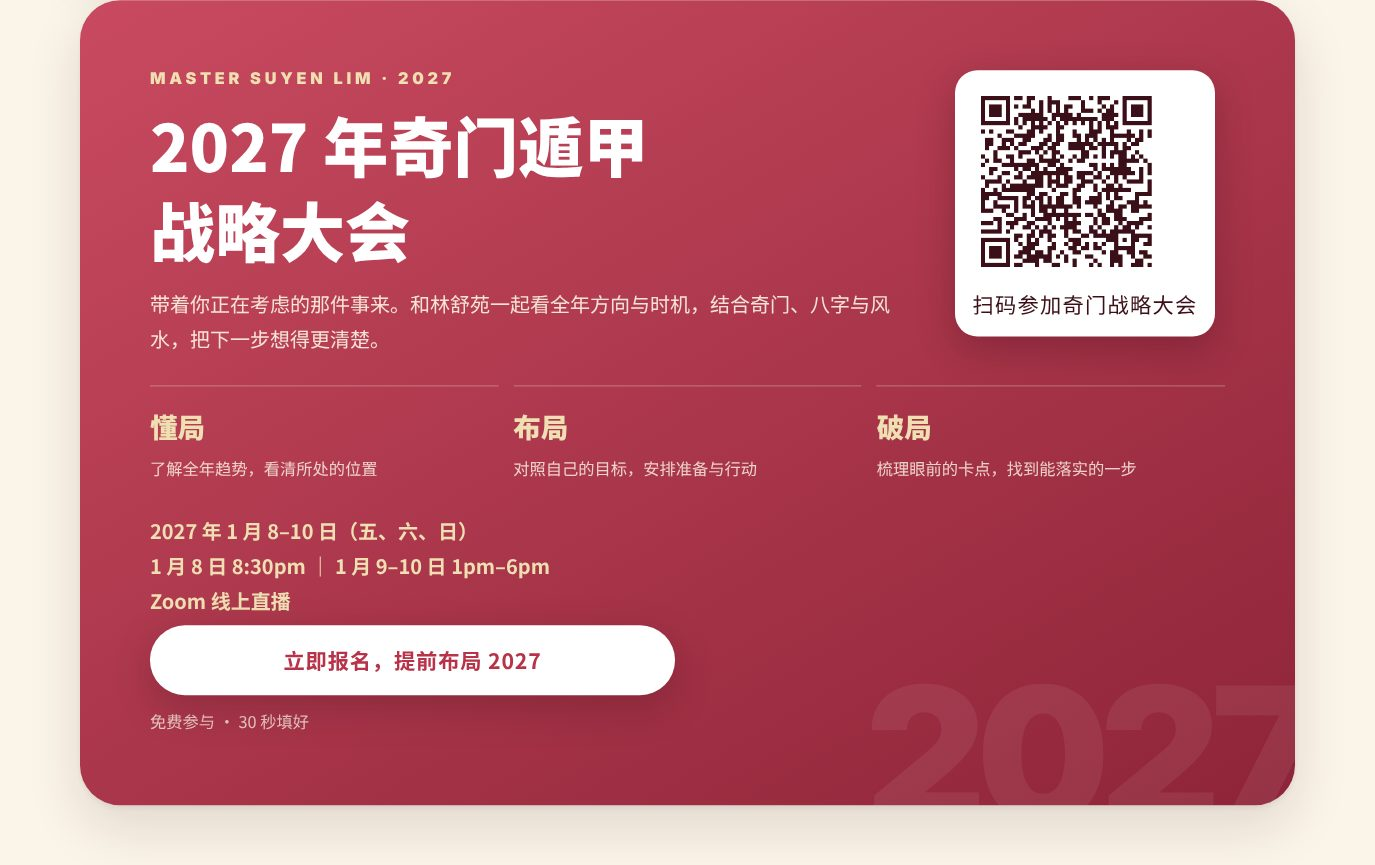
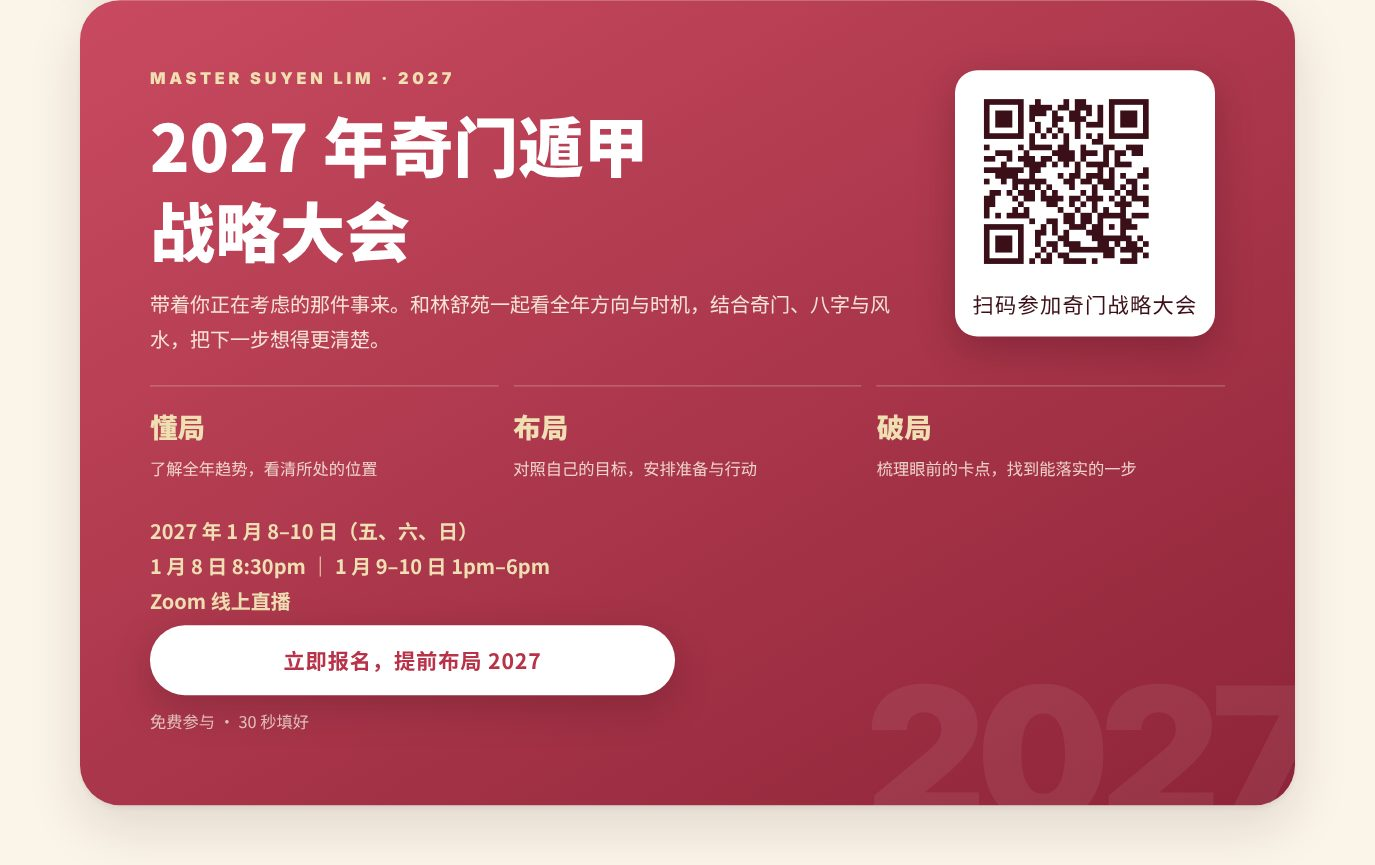
caiyun-guide: PDF conference card QR and button point to 2027qimenconference.suyenlim.com
Claude-Session: https://claude.ai/code/session_018n9rFHsTsMP5QigxfKvfFu

Changed region(s): [[0.7025, 0.0936, 0.8553, 0.3121]]

diff --git a/project/suyen2027conference/skills/suyen-landing/examples/caiyun-guide/raw/index-full.html b/project/suyen2027conference/skills/suyen-landing/examples/caiyun-guide/raw/index-full.html
@@ -1761,7 +1761,7 @@ sync();setInterval(function(){if(document.contains(sel))sync();},500);}
 $('.dob select').forEach(agSelect);})();
 /* raw 版：没有平台钩子，这里自己做 ① 出生日期 → 年柱地支 ② 报名弹窗 ③ 报名送出（跟平台一样送去 /api/track，算在 funnel 那一页） */
 (function(){
-var PDFZ={"0": {"u": "/avatars/lp-1795067336251-038a215f60ddacfb6d7b6073.jpg", "w": 1375, "h": 12415, "W": 1100, "H": 9931.45, "top": 2849.8, "bottom": 6151.73, "cards": {"1936": [5832.66, 6151.73], "1948": [5403.12, 5832.66], "1960": [4973.59, 5403.12], "1972": [4457.47, 4973.59], "1984": [4027.94, 4457.47], "1996": [3708.86, 4027.94], "2008": [3279.33, 3708.86], "2020": [2849.8, 3279.33]}}, "1": {"u": "/avatars/lp-1795067344077-668c8108887b774c34671bfb.jpg", "w": 1375, "h": 13105, "W": 1100, "H": 10483.3, "top": 3036.45, "bottom": 6330.27, "cards": {"1937": [5871.73, 6330.27], "1949": [5413.2, 5871.73], "1961": [5054.67, 5413.2], "1973": [4699.38, 5054.67], "1985": [4312.05, 4699.38], "1997": [3853.52, 4312.05], "2009": [3394.98, 3853.52], "2021": [3036.45, 3394.98]}}, "2": {"u": "/avatars/lp-1795155524640-361f316f44af317537694092.jpg", "w": 1375, "h": 14070, "W": 1100, "H": 11255, "top": 3036.45, "bottom": 7101.97, "cards": {"1938": [6556.84, 7101.97], "1950": [6167.36, 6556.84], "1962": [5564.44, 6167.36], "1974": [5090.31, 5564.44], "1986": [4573.98, 5090.31], "1998": [4028.86, 4573.98], "2010": [3639.38, 4028.86], "2022": [3036.45, 3639.38]}}, "3": {"u": "/avatars/lp-1795067345114-e23d0fbbaf9d772d318013ad.jpg", "w": 1375, "h": 13290, "W": 1100, "H": 10630.52, "top": 3007.66, "bottom": 6477.48, "cards": {"1939": [6118.95, 6477.48], "1951": [5631.62, 6118.95], "1963": [5115.5, 5631.62], "1975": [4728.17, 5115.5], "1987": [4369.64, 4728.17], "1999": [4011.11, 4369.64], "2011": [3523.78, 4011.11], "2023": [3007.66, 3523.78]}}, "4": {"u": "/avatars/lp-1795067345706-4b811bcd197e93398187848e.jpg", "w": 1375, "h": 13901, "W": 1100, "H": 11119.94, "top": 3007.66, "bottom": 6966.91, "cards": {"1940": [6561.03, 6966.91], "1952": [5986.91, 6561.03], "1964": [5412.78, 5986.91], "1976": [5006.91, 5412.78], "1988": [4561.78, 5006.91], "2000": [4155.91, 4561.78], "2012": [3581.78, 4155.91], "2024": [3007.66, 3581.78]}}, "5": {"u": "/avatars/lp-1795067346251-ee67f818f2bdb4b469e234c1.jpg", "w": 1375, "h": 13195, "W": 1100, "H": 10555.17, "top": 3007.66, "bottom": 6402.14, "cards": {"1941": [5943.61, 6402.14], "1953": [5485.08, 5943.61], "1965": [5108.2, 5485.08], "1977": [4760.12, 5108.2], "1989": [4301.59, 4760.12], "2001": [3843.06, 4301.59], "2013": [3384.53, 3843.06], "2025": [3007.66, 3384.53]}}, "6": {"u": "/avatars/lp-1795067347303-341d7b09ec79ee88679f3b45.jpg", "w": 1375, "h": 15101, "W": 1100, "H": 12079.58, "top": 3007.66, "bottom": 7926.55, "cards": {"1930": [7381.42, 7926.55], "1942": [6778.5, 7381.42], "1954": [6204.38, 6778.5], "1966": [5688.05, 6204.38], "1978": [5246.16, 5688.05], "1990": [4701.03, 5246.16], "2002": [4098.11, 4701.03], "2014": [3523.98, 4098.11], "2026": [3007.66, 3523.98]}}, "7": {"u": "/avatars/lp-1795067347575-bdcf150a90b2cd3fd0f2f00d.jpg", "w": 1375, "h": 14005, "W": 1100, "H": 11202.66, "top": 3007.66, "bottom": 7049.62, "cards": {"1931": [6562.3, 7049.62], "1943": [6103.77, 6562.3], "1955": [5716.44, 6103.77], "1967": [5257.91, 5716.44], "1979": [4799.38, 5257.91], "1991": [4312.05, 4799.38], "2003": [3853.52, 4312.05], "2015": [3466.19, 3853.52], "2027": [3007.66, 3466.19]}}, "8": {"u": "/avatars/lp-1795067348548-2039ec2b5d6a44560952382a.jpg", "w": 1375, "h": 13261, "W": 1100, "H": 10607.81, "top": 3029.75, "bottom": 6454.78, "cards": {"1932": [5938.66, 6454.78], "1944": [5451.33, 5938.66], "1956": [5121.8, 5451.33], "1968": [4792.27, 5121.8], "1980": [4362.73, 4792.27], "1992": [3846.61, 4362.73], "2004": [3359.28, 3846.61], "2016": [3029.75, 3359.28]}}, "9": {"u": "/avatars/lp-1795067349404-98878b43d9e7e697fa772445.jpg", "w": 1375, "h": 13235, "W": 1100, "H": 10586.53, "top": 3007.66, "bottom": 6433.5, "cards": {"1933": [5974.97, 6433.5], "1945": [5587.64, 5974.97], "1957": [5129.11, 5587.64], "1969": [4770.58, 5129.11], "1981": [4312.05, 4770.58], "1993": [3853.52, 4312.05], "2005": [3466.19, 3853.52], "2017": [3007.66, 3466.19]}}, "10": {"u": "/avatars/lp-1795067350262-8d75a01bdc91374c53a55bae.jpg", "w": 1375, "h": 12525, "W": 1100, "H": 10019.23, "top": 3029.75, "bottom": 5866.2, "cards": {"1934": [5565.47, 5866.2], "1946": [5235.94, 5565.47], "1958": [4906.41, 5235.94], "1970": [4476.88, 4906.41], "1982": [3989.55, 4476.88], "1994": [3688.81, 3989.55], "2006": [3359.28, 3688.81], "2018": [3029.75, 3359.28]}}, "11": {"u": "/avatars/lp-1795067350898-a6201c93ed9978c2a64c7835.jpg", "w": 1375, "h": 13459, "W": 1100, "H": 10766.45, "top": 3007.66, "bottom": 6613.42, "cards": {"1935": [6229.33, 6613.42], "1947": [5770.8, 6229.33], "1959": [5312.27, 5770.8], "1971": [4796.14, 5312.27], "1983": [4308.81, 4796.14], "1995": [3924.72, 4308.81], "2007": [3466.19, 3924.72], "2019": [3007.66, 3466.19]}}, "conf": {"u": "/avatars/lp-1795058678807-59ae0b89d85ffc3f3a310016.jpg", "w": 1375, "h": 865, "W": 1100, "H": 692.328125, "btn": [120, 499.578125, 420, 56], "qr": [764, 56, 208, 212.59375], "href": "https://wa.me/60176374934?text=%E6%88%91%E8%A6%81%E5%87%BA%E5%B8%AD%E5%A5%87%E9%97%A8%E6%88%98%E7%95%A5%E5%A4%A7%E4%BC%9A"}}; var PDF={}, OWN_SLUG="suyen2027-caiyun-full", FUNNEL_SLUG="suyen2027-caiyun-full", NEXT="https://2027shengxiaocaifu.suyenlim.com/suyen2027-caiyun-vip", LICHUN={"1929": "1929-02-04T14:55", "1930": "1930-02-04T20:39", "1931": "1931-02-05T02:31", "1932": "1932-02-05T08:22", "1933": "1933-02-04T14:03", "1934": "1934-02-04T20:00", "1935": "1935-02-05T01:46", "1936": "1936-02-05T07:28", "1937": "1937-02-04T13:24", "1938": "1938-02-04T19:13", "1939": "1939-02-05T01:07", "1940": "1940-02-05T07:02", "1941": "1941-02-04T12:42", "1942": "1942-02-04T18:39", "1943": "1943-02-05T00:28", "1944": "1944-02-05T06:09", "1945": "1945-02-04T12:05", "1946": "1946-02-04T17:49", "1947": "1947-02-04T23:36", "1948": "1948-02-05T05:29", "1949": "1949-02-04T11:11", "1950": "1950-02-04T17:12", "1951": "1951-02-04T23:06", "1952": "1952-02-05T04:48", "1953": "1953-02-04T10:43", "1954": "1954-02-04T16:29", "1955": "1955-02-04T22:16", "1956": "1956-02-05T04:10", "1957": "1957-02-04T09:52", "1958": "1958-02-04T15:45", "1959": "1959-02-04T21:36", "1960": "1960-02-05T03:15", "1961": "1961-02-04T09:12", "1962": "1962-02-04T15:05", "1963": "1963-02-04T20:54", "1964": "1964-02-05T02:50", "1965": "1965-02-04T08:31", "1966": "1966-02-04T14:24", "1967": "1967-02-04T20:18", "1968": "1968-02-05T01:57", "1969": "1969-02-04T07:50", "1970": "1970-02-04T13:40", "1971": "1971-02-04T19:21", "1972": "1972-02-05T01:18", "1973": "1973-02-04T07:03", "1974": "1974-02-04T12:59", "1975": "1975-02-04T18:57", "1976": "1976-02-05T00:36", "1977": "1977-02-04T06:29", "1978": "1978-02-04T12:20", "1979": "1979-02-04T18:03", "1980": "1980-02-04T23:58", "1981": "1981-02-04T05:42", "1982": "1982-02-04T11:31", "1983": "1983-02-04T17:25", "1984": "1984-02-04T23:04", "1985": "1985-02-04T04:58", "1986": "1986-02-04T10:56", "1987": "1987-02-04T16:42", "1988": "1988-02-04T22:35", "1989": "1989-02-04T04:22", "1990": "1990-02-04T10:10", "1991": "1991-02-04T16:06", "1992": "1992-02-04T21:47", "1993": "1993-02-04T03:36", "1994": "1994-02-04T09:29", "1995": "1995-02-04T15:09", "1996": "1996-02-04T21:02", "1997": "1997-02-04T02:54", "1998": "1998-02-04T08:47", "1999": "1999-02-04T14:45", "2000": "2000-02-04T20:27", "2001": "2001-02-04T02:14", "2002": "2002-02-04T08:09", "2003": "2003-02-04T13:51", "2004": "2004-02-04T19:43", "2005": "2005-02-04T01:32", "2006": "2006-02-04T07:18", "2007": "2007-02-04T13:12", "2008": "2008-02-04T18:56", "2009": "2009-02-04T00:47", "2010": "2010-02-04T06:46", "2011": "2011-02-04T12:32", "2012": "2012-02-04T18:21", "2013": "2013-02-04T00:11", "2014": "2014-02-04T05:59", "2015": "2015-02-04T11:52", "2016": "2016-02-04T17:37", "2017": "2017-02-03T23:23", "2018": "2018-02-04T05:16", "2019": "2019-02-04T11:00", "2020": "2020-02-04T16:48", "2021": "2021-02-03T22:44", "2022": "2022-02-04T04:37", "2023": "2023-02-04T10:30", "2024": "2024-02-04T16:17", "2025": "2025-02-03T22:02", "2026": "2026-02-04T03:56", "2027": "2027-02-04T09:42", "2028": "2028-02-04T15:28"};
+var PDFZ={"0": {"u": "/avatars/lp-1795067336251-038a215f60ddacfb6d7b6073.jpg", "w": 1375, "h": 12415, "W": 1100, "H": 9931.45, "top": 2849.8, "bottom": 6151.73, "cards": {"1936": [5832.66, 6151.73], "1948": [5403.12, 5832.66], "1960": [4973.59, 5403.12], "1972": [4457.47, 4973.59], "1984": [4027.94, 4457.47], "1996": [3708.86, 4027.94], "2008": [3279.33, 3708.86], "2020": [2849.8, 3279.33]}}, "1": {"u": "/avatars/lp-1795067344077-668c8108887b774c34671bfb.jpg", "w": 1375, "h": 13105, "W": 1100, "H": 10483.3, "top": 3036.45, "bottom": 6330.27, "cards": {"1937": [5871.73, 6330.27], "1949": [5413.2, 5871.73], "1961": [5054.67, 5413.2], "1973": [4699.38, 5054.67], "1985": [4312.05, 4699.38], "1997": [3853.52, 4312.05], "2009": [3394.98, 3853.52], "2021": [3036.45, 3394.98]}}, "2": {"u": "/avatars/lp-1795155524640-361f316f44af317537694092.jpg", "w": 1375, "h": 14070, "W": 1100, "H": 11255, "top": 3036.45, "bottom": 7101.97, "cards": {"1938": [6556.84, 7101.97], "1950": [6167.36, 6556.84], "1962": [5564.44, 6167.36], "1974": [5090.31, 5564.44], "1986": [4573.98, 5090.31], "1998": [4028.86, 4573.98], "2010": [3639.38, 4028.86], "2022": [3036.45, 3639.38]}}, "3": {"u": "/avatars/lp-1795067345114-e23d0fbbaf9d772d318013ad.jpg", "w": 1375, "h": 13290, "W": 1100, "H": 10630.52, "top": 3007.66, "bottom": 6477.48, "cards": {"1939": [6118.95, 6477.48], "1951": [5631.62, 6118.95], "1963": [5115.5, 5631.62], "1975": [4728.17, 5115.5], "1987": [4369.64, 4728.17], "1999": [4011.11, 4369.64], "2011": [3523.78, 4011.11], "2023": [3007.66, 3523.78]}}, "4": {"u": "/avatars/lp-1795067345706-4b811bcd197e93398187848e.jpg", "w": 1375, "h": 13901, "W": 1100, "H": 11119.94, "top": 3007.66, "bottom": 6966.91, "cards": {"1940": [6561.03, 6966.91], "1952": [5986.91, 6561.03], "1964": [5412.78, 5986.91], "1976": [5006.91, 5412.78], "1988": [4561.78, 5006.91], "2000": [4155.91, 4561.78], "2012": [3581.78, 4155.91], "2024": [3007.66, 3581.78]}}, "5": {"u": "/avatars/lp-1795067346251-ee67f818f2bdb4b469e234c1.jpg", "w": 1375, "h": 13195, "W": 1100, "H": 10555.17, "top": 3007.66, "bottom": 6402.14, "cards": {"1941": [5943.61, 6402.14], "1953": [5485.08, 5943.61], "1965": [5108.2, 5485.08], "1977": [4760.12, 5108.2], "1989": [4301.59, 4760.12], "2001": [3843.06, 4301.59], "2013": [3384.53, 3843.06], "2025": [3007.66, 3384.53]}}, "6": {"u": "/avatars/lp-1795067347303-341d7b09ec79ee88679f3b45.jpg", "w": 1375, "h": 15101, "W": 1100, "H": 12079.58, "top": 3007.66, "bottom": 7926.55, "cards": {"1930": [7381.42, 7926.55], "1942": [6778.5, 7381.42], "1954": [6204.38, 6778.5], "1966": [5688.05, 6204.38], "1978": [5246.16, 5688.05], "1990": [4701.03, 5246.16], "2002": [4098.11, 4701.03], "2014": [3523.98, 4098.11], "2026": [3007.66, 3523.98]}}, "7": {"u": "/avatars/lp-1795067347575-bdcf150a90b2cd3fd0f2f00d.jpg", "w": 1375, "h": 14005, "W": 1100, "H": 11202.66, "top": 3007.66, "bottom": 7049.62, "cards": {"1931": [6562.3, 7049.62], "1943": [6103.77, 6562.3], "1955": [5716.44, 6103.77], "1967": [5257.91, 5716.44], "1979": [4799.38, 5257.91], "1991": [4312.05, 4799.38], "2003": [3853.52, 4312.05], "2015": [3466.19, 3853.52], "2027": [3007.66, 3466.19]}}, "8": {"u": "/avatars/lp-1795067348548-2039ec2b5d6a44560952382a.jpg", "w": 1375, "h": 13261, "W": 1100, "H": 10607.81, "top": 3029.75, "bottom": 6454.78, "cards": {"1932": [5938.66, 6454.78], "1944": [5451.33, 5938.66], "1956": [5121.8, 5451.33], "1968": [4792.27, 5121.8], "1980": [4362.73, 4792.27], "1992": [3846.61, 4362.73], "2004": [3359.28, 3846.61], "2016": [3029.75, 3359.28]}}, "9": {"u": "/avatars/lp-1795067349404-98878b43d9e7e697fa772445.jpg", "w": 1375, "h": 13235, "W": 1100, "H": 10586.53, "top": 3007.66, "bottom": 6433.5, "cards": {"1933": [5974.97, 6433.5], "1945": [5587.64, 5974.97], "1957": [5129.11, 5587.64], "1969": [4770.58, 5129.11], "1981": [4312.05, 4770.58], "1993": [3853.52, 4312.05], "2005": [3466.19, 3853.52], "2017": [3007.66, 3466.19]}}, "10": {"u": "/avatars/lp-1795067350262-8d75a01bdc91374c53a55bae.jpg", "w": 1375, "h": 12525, "W": 1100, "H": 10019.23, "top": 3029.75, "bottom": 5866.2, "cards": {"1934": [5565.47, 5866.2], "1946": [5235.94, 5565.47], "1958": [4906.41, 5235.94], "1970": [4476.88, 4906.41], "1982": [3989.55, 4476.88], "1994": [3688.81, 3989.55], "2006": [3359.28, 3688.81], "2018": [3029.75, 3359.28]}}, "11": {"u": "/avatars/lp-1795067350898-a6201c93ed9978c2a64c7835.jpg", "w": 1375, "h": 13459, "W": 1100, "H": 10766.45, "top": 3007.66, "bottom": 6613.42, "cards": {"1935": [6229.33, 6613.42], "1947": [5770.8, 6229.33], "1959": [5312.27, 5770.8], "1971": [4796.14, 5312.27], "1983": [4308.81, 4796.14], "1995": [3924.72, 4308.81], "2007": [3466.19, 3924.72], "2019": [3007.66, 3466.19]}}, "conf": {"u": "/avatars/lp-1795157903531-68956f0e3695a9d8d5f82b71.jpg", "w": 1375, "h": 865, "W": 1100, "H": 692.328125, "btn": [120, 499.578125, 420, 56], "qr": [764, 56, 208, 212.59375], "href": "https://2027qimenconference.suyenlim.com"}}; var PDF={}, OWN_SLUG="suyen2027-caiyun-full", FUNNEL_SLUG="suyen2027-caiyun-full", NEXT="https://2027shengxiaocaifu.suyenlim.com/suyen2027-caiyun-vip", LICHUN={"1929": "1929-02-04T14:55", "1930": "1930-02-04T20:39", "1931": "1931-02-05T02:31", "1932": "1932-02-05T08:22", "1933": "1933-02-04T14:03", "1934": "1934-02-04T20:00", "1935": "1935-02-05T01:46", "1936": "1936-02-05T07:28", "1937": "1937-02-04T13:24", "1938": "1938-02-04T19:13", "1939": "1939-02-05T01:07", "1940": "1940-02-05T07:02", "1941": "1941-02-04T12:42", "1942": "1942-02-04T18:39", "1943": "1943-02-05T00:28", "1944": "1944-02-05T06:09", "1945": "1945-02-04T12:05", "1946": "1946-02-04T17:49", "1947": "1947-02-04T23:36", "1948": "1948-02-05T05:29", "1949": "1949-02-04T11:11", "1950": "1950-02-04T17:12", "1951": "1951-02-04T23:06", "1952": "1952-02-05T04:48", "1953": "1953-02-04T10:43", "1954": "1954-02-04T16:29", "1955": "1955-02-04T22:16", "1956": "1956-02-05T04:10", "1957": "1957-02-04T09:52", "1958": "1958-02-04T15:45", "1959": "1959-02-04T21:36", "1960": "1960-02-05T03:15", "1961": "1961-02-04T09:12", "1962": "1962-02-04T15:05", "1963": "1963-02-04T20:54", "1964": "1964-02-05T02:50", "1965": "1965-02-04T08:31", "1966": "1966-02-04T14:24", "1967": "1967-02-04T20:18", "1968": "1968-02-05T01:57", "1969": "1969-02-04T07:50", "1970": "1970-02-04T13:40", "1971": "1971-02-04T19:21", "1972": "1972-02-05T01:18", "1973": "1973-02-04T07:03", "1974": "1974-02-04T12:59", "1975": "1975-02-04T18:57", "1976": "1976-02-05T00:36", "1977": "1977-02-04T06:29", "1978": "1978-02-04T12:20", "1979": "1979-02-04T18:03", "1980": "1980-02-04T23:58", "1981": "1981-02-04T05:42", "1982": "1982-02-04T11:31", "1983": "1983-02-04T17:25", "1984": "1984-02-04T23:04", "1985": "1985-02-04T04:58", "1986": "1986-02-04T10:56", "1987": "1987-02-04T16:42", "1988": "1988-02-04T22:35", "1989": "1989-02-04T04:22", "1990": "1990-02-04T10:10", "1991": "1991-02-04T16:06", "1992": "1992-02-04T21:47", "1993": "1993-02-04T03:36", "1994": "1994-02-04T09:29", "1995": "1995-02-04T15:09", "1996": "1996-02-04T21:02", "1997": "1997-02-04T02:54", "1998": "1998-02-04T08:47", "1999": "1999-02-04T14:45", "2000": "2000-02-04T20:27", "2001": "2001-02-04T02:14", "2002": "2002-02-04T08:09", "2003": "2003-02-04T13:51", "2004": "2004-02-04T19:43", "2005": "2005-02-04T01:32", "2006": "2006-02-04T07:18", "2007": "2007-02-04T13:12", "2008": "2008-02-04T18:56", "2009": "2009-02-04T00:47", "2010": "2010-02-04T06:46", "2011": "2011-02-04T12:32", "2012": "2012-02-04T18:21", "2013": "2013-02-04T00:11", "2014": "2014-02-04T05:59", "2015": "2015-02-04T11:52", "2016": "2016-02-04T17:37", "2017": "2017-02-03T23:23", "2018": "2018-02-04T05:16", "2019": "2019-02-04T11:00", "2020": "2020-02-04T16:48", "2021": "2021-02-03T22:44", "2022": "2022-02-04T04:37", "2023": "2023-02-04T10:30", "2024": "2024-02-04T16:17", "2025": "2025-02-03T22:02", "2026": "2026-02-04T03:56", "2027": "2027-02-04T09:42", "2028": "2028-02-04T15:28"};
 var STEMS='甲乙丙丁戊己庚辛壬癸', BRANCH='子丑寅卯辰巳午未申酉戌亥', ZOD='鼠牛虎兔龙蛇马羊猴鸡狗猪';
 function $(id){return document.getElementById(id);}
 /* ① 出生日期 → 年柱（立春为界，马来西亚时间） */

diff --git a/project/suyen2027conference/skills/suyen-landing/examples/caiyun-guide/raw/confimg2.js b/project/suyen2027conference/skills/suyen-landing/examples/caiyun-guide/raw/confimg2.js
@@ -17,6 +17,6 @@ await m.evaluate(qr=>{const cf=document.querySelector('.rd0 .conf');cf.style.pos
  cf.appendChild(d);},qr);
 await m.evaluate(()=>document.fonts.ready);await m.waitForTimeout(300);
 const g=await m.evaluate(()=>{const rd=document.querySelector('.rd0'),cf=rd.querySelector('.conf'),R=rd.getBoundingClientRect(),C=cf.getBoundingClientRect(),a=cf.querySelector('a.btn').getBoundingClientRect();
- const q=document.getElementById('pdfqr').getBoundingClientRect();return {x:R.left+scrollX,w:R.width,y:C.top+scrollY,h:C.height+48,btn:[a.left-R.left,a.top-C.top,a.width,a.height],qr:[q.left-R.left,q.top-C.top,q.width,q.height],href:cf.querySelector('a.btn').href}});
+ const q=document.getElementById('pdfqr').getBoundingClientRect();return {x:R.left+scrollX,w:R.width,y:C.top+scrollY,h:C.height+48,btn:[a.left-R.left,a.top-C.top,a.width,a.height],qr:[q.left-R.left,q.top-C.top,q.width,q.height],href:'https://2027qimenconference.suyenlim.com'}});
 await m.screenshot({path:'pdfz/conf2.jpg',type:'jpeg',quality:82,clip:{x:g.x,y:g.y,width:g.w,height:g.h},fullPage:true});
 fs.writeFileSync('pdfz/conf2.json',JSON.stringify(g));console.log(g);await b.close()})()

diff --git a/project/suyen2027conference/skills/suyen-landing/examples/caiyun-guide/raw/LIVE.md b/project/suyen2027conference/skills/suyen-landing/examples/caiyun-guide/raw/LIVE.md
@@ -75,3 +75,4 @@
 - 2026-11-20：属虎 06 行动卡上线。Studio 两个版本都写成「更要能过度乐观」，我把「能」换成「防」（Noto Sans SC 400、54px，跟原字逐像素对齐），其余字跟 prompt 一致；PDF 也重拍。原图 photo-1794990990098。
 - (NEW) 欢迎讯息 A_GATE 改成「你好 {name}👋 你的报名 【2027奇门战略大会】收到啦 ！🎉 …请点击下方「我会出席」…」，按钮「我会出席」。**WhatsApp 第一则要 Meta 审核模板**：API 改文字不会送审，要在 aigoal 漏斗编辑器「报名确认」那一步按保存/送审，审过前会发旧的预设模板。
 - 2026-11-20：网域改挂 (NEW) 的 Opt-in（nmsqus6s，slug suyen2027-caiyun）→ aigoal 漏斗画面显示网域。流程：`/` 资料框 → 送出 → `/suyen2027-caiyun-guide`（选年份看指南，最后有 PDF）→ `/suyen2027-caiyun-vip` → `/join` 或 `/suyen2027-caiyun-vipok`。完整版指南 lf1skpvx 回到 suyen2027-caiyun-full（给 ?pdf=年份 下载用）。第 2 页补上属虎行动卡图片。
+- 2026-11-20：PDF 最后的大会卡 QR（扫码参加奇门战略大会）+ 卡上「立即报名」连结 → https://2027qimenconference.suyenlim.com。
